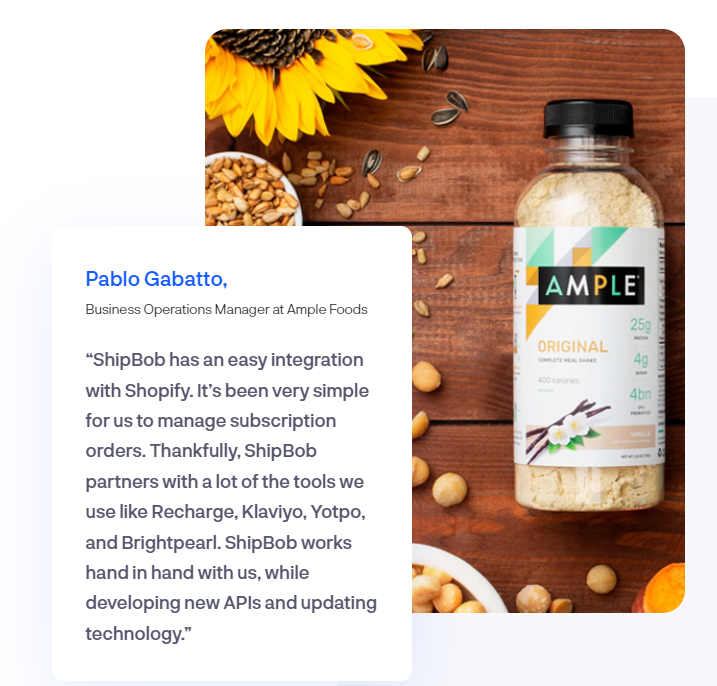
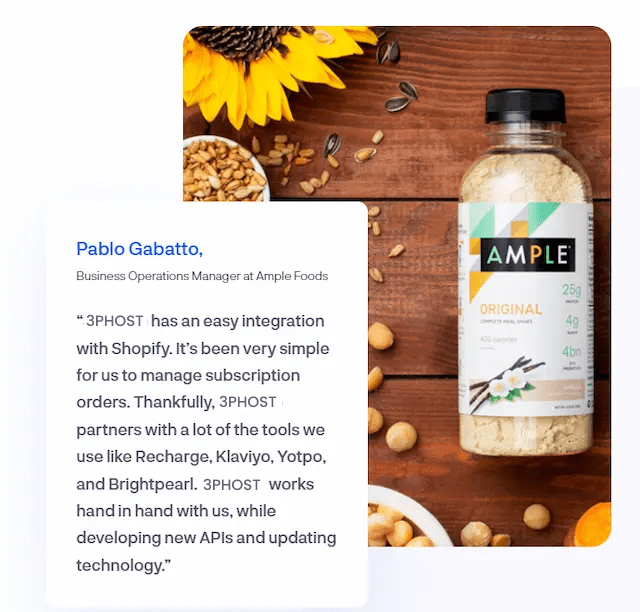
shipbob removed

diff --git a/app/(site)/product/page.tsx b/app/(site)/product/page.tsx
@@ -1,12 +1,6 @@
 "use client"
-import About from '@/components/About'
-import Brands from '@/components/Brands'
-import Feature from '@/components/Features'
-import FeaturesTab from '@/components/FeaturesTab'
-import FunFact from '@/components/FunFact'
-import Hero from '@/components/Hero'
 import ProductHero from '@/components/Hero/ProductHero'
-import Integration from '@/components/Integration'
+// import Integration from '@/components/Integration'
 import Cards from '@/components/Cards/Cards'
 import Solution from '@/components/Solution/Solution'
 // import FulfillmentSteps from '../../../components/FulfillmentSteps/FulfillmentSteps'
@@ -97,18 +91,18 @@ const ProductPage = () => {
                 </div>
             </section>
 
-            <Cards item={1} position={2} p1={"We’ve onboarded thousands of ecommerce merchants and helped some of the fastest-growing brands scale effortlessly. Our implementation team sets you up for success with everything from configuring your ship options, to syncing your online store."} p2={"ShipBob’s turnkey integrations with all major ecommerce platforms and marketplaces – including Shopify, BigCommerce, Amazon, and Walmart – let you import orders and send data back and forth for a two-way flow of information."} heading={"Easy and helpful"} url={Image} brWord={"onboarding"} />
+            <Cards item={1} position={2} p1={"We’ve onboarded thousands of ecommerce merchants and helped some of the fastest-growing brands scale effortlessly. Our implementation team sets you up for success with everything from configuring your ship options, to syncing your online store."} p2={"3PHOST's turnkey integrations with all major ecommerce platforms and marketplaces – including Shopify, BigCommerce, Amazon, and Walmart – let you import orders and send data back and forth for a two-way flow of information."} heading={"Easy and helpful"} url={Image} brWord={"onboarding"} />
 
             <Cards item={2} position={1}
-                p1={"With ShipBob’s network of fulfillment centers, you can strategically split your inventory across our locations to get your products from point A to point B more quickly and affordably. Storing inventory near your customers helps reduce the shipping zones and costs associated with shipping orders to faraway destinations."}
-                p2={"Distributed inventory also helps you stay competitive by offering two-day shipping to your customers. When an order is placed, ShipBob’s algorithm automatically selects the warehouse and carrier that will give you the quickest turnaround at the best price. This strategy has helped our merchants bring 13% savings to their bottom line."}
+                p1={"With 3PHOST network of fulfillment centers, you can strategically split your inventory across our locations to get your products from point A to point B more quickly and affordably. Storing inventory near your customers helps reduce the shipping zones and costs associated with shipping orders to faraway destinations."}
+                p2={"Distributed inventory also helps you stay competitive by offering two-day shipping to your customers. When an order is placed, 3PHOST algorithm automatically selects the warehouse and carrier that will give you the quickest turnaround at the best price. This strategy has helped our merchants bring 13% savings to their bottom line."}
                 heading={"Distributed"}
                 url={Distributed}
                 brWord={"inventory"}
             />
 
             <Cards item={2} position={2}
-                p1={"ShipBob’s 2-Day Express Shipping Program enables fast delivery for all continental US orders for any of our ecommerce store integrations. With 2-day shipping as the standard, merchants have been able to reduce cart abandonment by 18% and increase average order value by 97%. "}
+                p1={"3PHOST 2-Day Express Shipping Program enables fast delivery for all continental US orders for any of our ecommerce store integrations. With 2-day shipping as the standard, merchants have been able to reduce cart abandonment by 18% and increase average order value by 97%. "}
                 p2={"Whether you ship from one or multiple fulfillment center locations, you can offer fast delivery to 100% of US-based customers. Our proprietary algorithm uses a combination of ground, air, and regional carriers to provide high on-time delivery rates for 2-day orders. "}
                 heading={"2-Day Express Shipping"}
                 url={Day_iPhone}
@@ -117,8 +111,8 @@ const ProductPage = () => {
 
 
             <Cards item={2} position={1}
-                p1={"At ShipBob, we track your orders from A to Z. Filter orders by status, search for specific orders, see a quick timeline view of where your order is in the fulfillment process (e.g. when an order is picked, packed, or shipped), easily find shipping-related information (e.g., weights, dimensions, or carrier service), and get a quick snapshot of any orders that require action."}
-                p2={"With order management software for your direct-to-consumer and wholesale shipments, you can manage subscriptions, make changes to your orders post-purchase, map your store’s shipping options to ShipBob, and automatically share tracking information with your customers."}
+                p1={"At 3PHOST, we track your orders from A to Z. Filter orders by status, search for specific orders, see a quick timeline view of where your order is in the fulfillment process (e.g. when an order is picked, packed, or shipped), easily find shipping-related information (e.g., weights, dimensions, or carrier service), and get a quick snapshot of any orders that require action."}
+                p2={"With order management software for your direct-to-consumer and wholesale shipments, you can manage subscriptions, make changes to your orders post-purchase, map your store’s shipping options to 3PHOST, and automatically share tracking information with your customers."}
                 heading={"Order management "}
                 url={product}
                 brWord={""}
@@ -127,7 +121,7 @@ const ProductPage = () => {
 
 
             <Cards item={2} position={2}
-                p1={"At ShipBob, we empower merchants to manage their inventory with the right tools and guidance. It’s easy to view the status of inventory and quantity on hand across locations at any point in time, identify slow-moving inventory with high storage costs, and gain insights into the performance of units sold over time by channel."}
+                p1={"At 3PHOST, we empower merchants to manage their inventory with the right tools and guidance. It’s easy to view the status of inventory and quantity on hand across locations at any point in time, identify slow-moving inventory with high storage costs, and gain insights into the performance of units sold over time by channel."}
                 p2={"Our inventory management software helps you set reminders to proactively replenish inventory with reorder notifications, bundle your products for promotions, make inventory transfer requests, and much more."}
                 heading={"Inventory management"}
                 url={product2}
@@ -137,7 +131,7 @@ const ProductPage = () => {
 
 
             <Cards item={2} position={1}
-                p1={"To provide you with visibility into our operations and performance, and also hold ourselves accountable, ShipBob’s free analytics tool is packed with charts to help you with everything from year-end reporting, to better supply chain decision-making."}
+                p1={"To provide you with visibility into our operations and performance, and also hold ourselves accountable, 3PHOST free analytics tool is packed with charts to help you with everything from year-end reporting, to better supply chain decision-making."}
                 p2={"Data can be a competitive advantage, and our reports show an analysis of which fulfillment centers you should stock, days of inventory left before you run out, impact of promotions on stock levels, each shipping method’s average cart value, shipping cost, and days in transit, your fulfillment cost per order, storage cost per unit, and much more."}
                 heading={"Reporting and"}
                 url={product3}
@@ -145,7 +139,7 @@ const ProductPage = () => {
             />
 
             <Cards item={2} position={2}
-                p1={"From custom branded boxes to free plain packaging, ShipBob works with you to provide the unboxing experience you want. We also help you offer the fastest, most cost-effective shipping options to meet your customers’ expectations. As soon as an order ships, tracking is pushed back to your store."}
+                p1={"From custom branded boxes to free plain packaging, 3PHOST works with you to provide the unboxing experience you want. We also help you offer the fastest, most cost-effective shipping options to meet your customers’ expectations. As soon as an order ships, tracking is pushed back to your store."}
                 p2={"We also offer return management services, allowing customers to generate return shipping labels and track returns, while getting your products processed and back into your available inventory as efficiently as possible."}
                 heading={"End-to-end customer"}
                 url={last}

diff --git a/components/FunFact/index.tsx b/components/FunFact/index.tsx
@@ -10,7 +10,7 @@ const FunFact = () => {
       <section className="px-4 py-20 md:px-8 lg:py-22.5 2xl:px-0">
         <div className="relative z-1 mx-auto max-w-c-1390 rounded-lg  py-22.5 dark:bg-blacksection dark:bg-gradient-to-t dark:from-transparent dark:to-transparent dark:stroke-strokedark xl:py-27.5">
           <h1 className="text-[#175CFF] font-bold">CUSTOMER STORIES</h1>
-          <h1 className="mt-2 text-4xl font-semibold text-black dark:text-white">ShipBob is a partner for the long run — at all stages of <br /> growth</h1>
+          <h1 className="mt-2 text-4xl font-semibold text-black dark:text-white">3PHOST is a partner for the long run — at all stages of <br /> growth</h1>
 
 
           <div className="flex items-start justify-between gap-x-4 flex-wrap mt-[3rem]">
@@ -20,7 +20,7 @@ const FunFact = () => {
               <Image width={200} height={150} alt="image" src={`https://www.shipbob.com/wp-content/smush-webp/2023/11/ed145c852edd364485e01e1a1db4eae6.png.webp`} className="rounded-md"/>
               <h1 className="mt-6 text-3xl text-black dark:text-white font-semibold">2,400</h1>
               <h1 className="mt-3 text-xl">SKUs in their catalog</h1>
-              <p className="mt-7 text-wrap text-xl border-l-2 border-[#175CFF] pl-[1rem]">"We have a high item per order ratio, The ability to have variable costs and competitive pricing for shipping is important to us. We have days with over 1,000 orders and it’s not problem for ShipBob."</p>
+              <p className="mt-7 text-wrap text-xl border-l-2 border-[#175CFF] pl-[1rem]">"We have a high item per order ratio, The ability to have variable costs and competitive pricing for shipping is important to us. We have days with over 1,000 orders and it’s not problem for 3PHOST."</p>
             </div>
 
 
@@ -28,21 +28,21 @@ const FunFact = () => {
               <Image width={200} height={150} alt="image" src={`https://www.shipbob.com/wp-content/uploads/2021/07/Series-E-Funding-4.png`} className="rounded-md"/>
               <h1 className="mt-6 text-3xl text-black dark:text-white font-semibold">2,400</h1>
               <h1 className="mt-3 text-xl">SKUs in their catalog</h1>
-              <p className="mt-7 text-wrap text-xl border-l-2 border-[#175CFF] pl-[1rem]">"We have a high item per order ratio, The ability to have variable costs and competitive pricing for shipping is important to us. We have days with over 1,000 orders and it’s not problem for ShipBob."</p>
+              <p className="mt-7 text-wrap text-xl border-l-2 border-[#175CFF] pl-[1rem]">"We have a high item per order ratio, The ability to have variable costs and competitive pricing for shipping is important to us. We have days with over 1,000 orders and it’s not problem for 3PHOST."</p>
             </div>
 
             <div className="sm:max-w-[20rem] sm:min-w-[20rem] sm:h-[30rem] mb-4">
               <Image width={200} height={150} alt="image" src={`https://www.shipbob.com/wp-content/uploads/2020/02/TB12-body-coaches.png`} className="rounded-md"/>
               <h1 className="mt-6 text-3xl text-black dark:text-white font-semibold">2,400</h1>
               <h1 className="mt-3 text-xl">SKUs in their catalog</h1>
-              <p className="mt-7  text-wrap text-xl border-l-2 border-[#175CFF] pl-[1rem]">"We have a high item per order ratio, The ability to have variable costs and competitive pricing for shipping is important to us. We have days with over 1,000 orders and it’s not problem for ShipBob."</p>
+              <p className="mt-7  text-wrap text-xl border-l-2 border-[#175CFF] pl-[1rem]">"We have a high item per order ratio, The ability to have variable costs and competitive pricing for shipping is important to us. We have days with over 1,000 orders and it’s not problem for 3PHOST."</p>
             </div>
 
             <div className="sm:max-w-[20rem] sm:min-w-[20rem] sm:h-[30rem] mb-4">
               <Image width={200} height={150} alt="image" src={`https://www.shipbob.com/wp-content/uploads/2021/03/Touchland-hand-sanitizer.png`} className="rounded-md"/>
               <h1 className="mt-6 text-3xl text-black dark:text-white font-semibold">2,400</h1>
               <h1 className="mt-3 text-xl">SKUs in their catalog</h1>
-              <p className="mt-7 text-wrap text-xl border-l-2 border-[#175CFF] pl-[1rem]">"We have a high item per order ratio, The ability to have variable costs and competitive pricing for shipping is important to us. We have days with over 1,000 orders and it’s not problem for ShipBob."</p> 
+              <p className="mt-7 text-wrap text-xl border-l-2 border-[#175CFF] pl-[1rem]">"We have a high item per order ratio, The ability to have variable costs and competitive pricing for shipping is important to us. We have days with over 1,000 orders and it’s not problem for 3PHOST."</p> 
             </div>
 
           </div>

diff --git a/components/FunFact/FunFactProduct.jsx b/components/FunFact/FunFactProduct.jsx
@@ -10,7 +10,7 @@ const FunFactProduct = () => {
       <section className="px-4 py-20 md:px-8 lg:py-22.5 2xl:px-0">
         <div className="relative z-1 mx-auto max-w-c-1390 rounded-lg  py-22.5 dark:bg-blacksection dark:bg-gradient-to-t dark:from-transparent dark:to-transparent dark:stroke-strokedark xl:py-27.5">
           <h1 className="text-[#175CFF] font-bold text-center">CUSTOMER STORIES</h1>
-          <h1 className="mt-2 text-4xl font-semibold text-black dark:text-white text-center">Don’t just take our word for it — see why ShipBob is trusted by thousands <br /> of merchants</h1>
+          <h1 className="mt-2 text-4xl font-semibold text-black dark:text-white text-center">Don’t just take our word for it — see why 3PHOST is trusted by thousands <br /> of merchants</h1>
 
 
           <div className="flex items-start justify-between gap-x-4 flex-wrap mt-[3rem]">
@@ -18,18 +18,18 @@ const FunFactProduct = () => {
 
             <div className="sm:max-w-[25rem] sm:min-w-[25rem] sm:h-[30rem] mb-4">
               <Image width={50} height={150} alt="image" src={`https://www.shipbob.com/wp-content/uploads/2020/01/Noel.jpg`} className="rounded-md"/>
-              <p className="mt-7 text-wrap text-xl border-l-2 border-[#175CFF] pl-[1rem]">"It was kind of like magic — my orders were imported into ShipBob from my Shopify Plus store and started getting fulfilled right away. I didn’t have to do anything. Since then, we’ve grown 115% and experienced 2.5 times more order volume. And with ShipBob’s 2-Day Express program, we’ve seen a 24% increase in our average order value for qualifying orders placed on our Shopify Plus store."</p>
+              <p className="mt-7 text-wrap text-xl border-l-2 border-[#175CFF] pl-[1rem]">"It was kind of like magic — my orders were imported into 3PHOST from my Shopify Plus store and started getting fulfilled right away. I didn’t have to do anything. Since then, we’ve grown 115% and experienced 2.5 times more order volume. And with 3PHOST 2-Day Express program, we’ve seen a 24% increase in our average order value for qualifying orders placed on our Shopify Plus store."</p>
             </div>
 
 
             <div className="sm:max-w-[25rem] sm:min-w-[25rem] sm:h-[30rem] mb-4">
               <Image width={50} height={150} alt="image" src={`https://www.shipbob.com/wp-content/uploads/2019/12/headshot-matt-300x289-1.png`} className="rounded-md"/>
-              <p className="mt-7 text-wrap text-xl border-l-2 border-[#175CFF] pl-[1rem]">"IThere is a cost-benefit to having several fulfillment centers, as orders can be shipped from warehouses that are closer to customers and delivered very quickly. With ShipBob, I stay up-to-date with what’s shipped, physical inventory levels, and my company’s performance. They keep getting better, helping brands grow and expand at a ratio that other 3PLs might be a few years behind."</p>
+              <p className="mt-7 text-wrap text-xl border-l-2 border-[#175CFF] pl-[1rem]">"IThere is a cost-benefit to having several fulfillment centers, as orders can be shipped from warehouses that are closer to customers and delivered very quickly. With 3PHOST, I stay up-to-date with what’s shipped, physical inventory levels, and my company’s performance. They keep getting better, helping brands grow and expand at a ratio that other 3PLs might be a few years behind."</p>
             </div>
 
             <div className="sm:max-w-[25rem] sm:min-w-[25rem] sm:h-[30rem] mb-4">
               <Image width={50} height={150} alt="image" src={`https://www.shipbob.com/wp-content/uploads/2019/12/oded.jpg`} className="rounded-md"/>
-              <p className="mt-7  text-wrap text-xl border-l-2 border-[#175CFF] pl-[1rem]">"Our business is almost all subscriptions, and ShipBob helps us offer reliable, affordable shipping that shows up at the same time each month. ShipBob’s analytics tool helps us a lot with planning inventory reorders, seeing when SKUs are going to run out, and we can even set up email notifications so that we’re alerted when a SKU has less than a certain quantity left."</p>
+              <p className="mt-7  text-wrap text-xl border-l-2 border-[#175CFF] pl-[1rem]">"Our business is almost all subscriptions, and 3PHOST helps us offer reliable, affordable shipping that shows up at the same time each month. 3PHOST analytics tool helps us a lot with planning inventory reorders, seeing when SKUs are going to run out, and we can even set up email notifications so that we’re alerted when a SKU has less than a certain quantity left."</p>
             </div>
 
           </div>

diff --git a/components/Footer/index.tsx b/components/Footer/index.tsx
@@ -12,7 +12,7 @@ const Footer = () => {
 
           <div className="flex justify-between items-center pt-20 border-b pb-10">
             <div>
-              <h1 className="text-lg font-bold text-[#52C4FF]">Get in touch with Shipbob</h1>
+              <h1 className="text-lg font-bold text-[#52C4FF]">Get in touch with 3PHOST</h1>
               <p className="text-3xl font-bold text-white mt-2">Looking for a fulfillment solution?</p>
             </div>
             <div>
@@ -36,7 +36,7 @@ const Footer = () => {
                   <FaYoutube className="text-[#175CFF] text-2xl" />
                 </div>
 
-                <a href="#" className="text-lg font-medium text-white">© Copyright ShipBob, Inc. All Rights Reserved. 120 N Racine Ave. Suite 100 Chicago, IL 60607</a>
+                <a href="#" className="text-lg font-medium text-white">© Copyright 3PHOST, Inc. All Rights Reserved. 120 N Racine Ave. Suite 100 Chicago, IL 60607</a>
               </motion.div>
 
               <div className="flex w-full flex-col gap-5 md:flex-row md:justify-between md:gap-0 lg:w-2/3 xl:w-7/12">
@@ -110,7 +110,7 @@ const Footer = () => {
                       <a href="#" className="mb-3 inline-block hover:text-primary">Returns Management</a>
                     </li>
                     <li>
-                      <a href="#" className="mb-3 inline-block hover:text-primary">ShipBob Developer APIs</a>
+                      <a href="#" className="mb-3 inline-block hover:text-primary">3PHOST Developer APIs</a>
                     </li>
                   </ul>
                 </motion.div>
@@ -140,17 +140,17 @@ const Footer = () => {
                       <a href="#" className="mb-3 inline-block hover:text-primary">Shipping Carrier Data</a>
                     </li>
                     <li>
-                      <a href="#" className="mb-3 inline-block hover:text-primary">ShipBob Status Page</a>
+                      <a href="#" className="mb-3 inline-block hover:text-primary">3PHOST Status Page</a>
                     </li>
                     <li>
-                      <a href="#" className="mb-3 inline-block hover:text-primary" >ShipBob Locations</a>
+                      <a href="#" className="mb-3 inline-block hover:text-primary" >3PHOST Locations</a>
                     </li>
 
                     <li>
                       <a href="#" className="mb-3 inline-block hover:text-primary">Health, Beauty</a>
                     </li>
                     <li>
-                      <a href="#" className="mb-3 inline-block hover:text-primary">Shopify + ShipBob</a>
+                      <a href="#" className="mb-3 inline-block hover:text-primary">Shopify + 3PHOST</a>
                     </li>
                   </ul>
                 </motion.div>

diff --git a/components/Contact/index.tsx b/components/Contact/index.tsx
@@ -32,12 +32,12 @@ const Contact = () => {
             <div>
               <h1 className="text-[4rem] font-bold text-black dark:text-white mb-[3rem]">Contact Us</h1>
               <p className="mt-4 text-lg">We’re here to help. Ask us about the product, our services, and any <br /> questions you have.</p>
-              <p className="mt-4 text-lg">ShipBob HQ address 120 N Racine Ave. Suite 100 Chicago, IL 60607</p>
+              <p className="mt-4 text-lg">3PHOST HQ address 120 N Racine Ave. Suite 100 Chicago, IL 60607</p>
               <p className="mt-4 text-lg border-b border-[#2F6DFF] pb-1 w-fit text-[#2F6DFF] cursor-pointer">View our fulfillment locations here.</p>
               <p className="mt-4 text-lg font-semibold">Customer Support</p>
               <p className="mt-4 text-lg">Need help with anything?</p>
               <ul>
-                <li className="mt-2 list-disc text-lg font-semibold border-b border-[#2F6DFF] pb-1 w-fit text-[#2F6DFF] cursor-pointer">Contact ShipBob’s Merchant Care team</li>
+                <li className="mt-2 list-disc text-lg font-semibold border-b border-[#2F6DFF] pb-1 w-fit text-[#2F6DFF] cursor-pointer">Contact 3PHOST Merchant Care team</li>
                 <li className="mt-2 list-disc text-lg font-semibold">Call 1-312-313-1104</li>
                 <li className="mt-2 list-disc text-lg font-semibold border-b border-[#2F6DFF] pb-1 w-fit text-[#2F6DFF] cursor-pointer">View our Help Center</li>
                 <li className="mt-2 list-disc text-lg font-semibold border-b border-[#2F6DFF] pb-1 w-fit text-[#2F6DFF] cursor-pointer">Media inquiries</li>
@@ -49,7 +49,7 @@ const Contact = () => {
 
 
             <div className="bg-white w-auto h-auto lg:h-[43rem] lg:w-[38rem] lg:rounded-3xl lg:shadow-lg lg:border lg:px-7 py-10">
-              <h1 className="text-[2rem] font-bold text-black dark:text-white mb-[1.5rem]">Contact ShipBob’s Sales Team</h1>
+              <h1 className="text-[2rem] font-bold text-black dark:text-white mb-[1.5rem]">Contact 3PHOST Sales Team</h1>
               <p className="text-xl font-semibold text-black dark:text-white mb-[1rem]">Need customer support? Please go <span className=" border-b border-[#2F6DFF]  w-fit text-[#2F6DFF] cursor-pointer">here</span>.</p>
 
               <form action="">

diff --git a/app/(site)/blog/page.tsx b/app/(site)/blog/page.tsx
@@ -21,7 +21,7 @@ const BlogPage = async () => {
 
           <div>
             <h1 className="text-3xl font-bold text-black dark:text-white">Subscribe to the</h1>
-            <h1 className="text-3xl font-bold text-black dark:text-white">ShipBob Blog</h1>
+            <h1 className="text-3xl font-bold text-black dark:text-white">3PHOST Blog</h1>
             <p className="text-lg mt-4">Get a bi-weekly email, rounding up our latest articles that</p>
             <p className="text-lg ">feature the latest tips to improve ecommerce logistics.</p>
           </div>
@@ -32,7 +32,7 @@ const BlogPage = async () => {
             </div>
             <div>
               <p className="text-xs font-bold text-[#175cff] mb-2">Enter email to subscribe to our newsletter*</p>
-              <input type="text" name="" id="" placeholder="e.g:robert@shipbob.com" className="h-[4rem] border border-[#d2d2d2] px-3 outline-none rounded-md dark:bg-white" />
+              <input type="text" name="" id="" placeholder="e.g:robert@3PHOST.com" className="h-[4rem] border border-[#d2d2d2] px-3 outline-none rounded-md dark:bg-white" />
             </div>
             <div>
               <Link href="https://nextjstemplates.com/templates/solid" className="flex items-center justify-center rounded-full bg-primary px-7.5 py-3.5 text-regular text-white duration-300 ease-in-out hover:bg-primaryho font-bold md:mt-0 mt-5">Subscribe</Link>

diff --git a/components/Solution/Solution.jsx b/components/Solution/Solution.jsx
@@ -7,13 +7,13 @@ function Solution() {
             icon: '/images/Solution/product-sec10-1.svg', // Replace with the correct path to your icon
             title: 'Solutions for your unique needs',
             description:
-                'ShipBob can accommodate your business if you require additional services such as kitting, B2B orders, international fulfillment, and much more.',
+                '3PHOST can accommodate your business if you require additional services such as kitting, B2B orders, international fulfillment, and much more.',
         },
         {
             icon: '/images/Solution/product-sec10-2.svg', // Replace with the correct path to your icon
             title: 'A scalable partner as you grow',
             description:
-                'From helping you grow to supporting your growth, ShipBob makes it easy to increase revenue, reduce cart abandonment, and expand domestically or internationally.',
+                'From helping you grow to supporting your growth, 3PHOST makes it easy to increase revenue, reduce cart abandonment, and expand domestically or internationally.',
         },
         {
             icon: '/images/Solution/product-sec10-3.svg', // Replace with the correct path to your icon

diff --git a/components/Features/index.tsx b/components/Features/index.tsx
@@ -10,21 +10,12 @@ const Feature = () => {
       {/* <!-- ===== Features Start ===== --> */}
       <section id="features" className="py-20 lg:py-25 xl:py-30">
         <div className="mx-auto max-w-c-1315 px-4 md:px-8 xl:px-0">
-          {/* <!-- Section Title Start --> */}
-          {/* <SectionHeader
-            headerInfo={{
-              title: "Ecommerce Fulfillment Services",
-              subtitle: "ShipBob is an end-to-end fulfillment provider trusted by thousands of brands",
-              description:
-                "ShipBob is an end-to-end fulfillment provider trusted by thousands of brands",
-            }}
-          />{" "} */}
           <div className="text-start">
             <p className="text-base font-extrabold uppercase text-[#0063ED]">
               Ecommerce Fulfillment Services
             </p>
             <h2 className="mt-2 text-3xl font-bold tracking-tight text-gray-900 sm:text-4xl">
-              ShipBob is an end-to-end fulfillment provider
+            3PHOST is an end-to-end fulfillment provider
               <br />
               trusted by thousands of brands
             </h2>

diff --git a/components/Hero/ProductHero.tsx b/components/Hero/ProductHero.tsx
@@ -11,10 +11,10 @@ const ProductHero = () => {
         <div className="mx-auto max-w-c-1390 px-4 md:px-8 2xl:px-0">
           <div className="flex lg:items-center lg:gap-8 xl:gap-32.5">
             <div className=" md:w-1/2">
-              <h1 className="mb-5 pr-16 text-3xl font-bold text-black dark:text-white xl:text-hero ">How ShipBob <br /> Works</h1>
+              <h1 className="mb-5 pr-16 text-3xl font-bold text-black dark:text-white xl:text-hero ">How 3PHOST <br /> Works</h1>
 
               <div className="mt-2">
-                <p>ShipBob is a full-stack fulfillment platform. We use our proprietary software across our fulfillment network for a cohesive experience. Orders are automatically sent to our warehouses, where inventory is picked, packed, and shipped to your customers.</p>
+                <p>3PHOST is a full-stack fulfillment platform. We use our proprietary software across our fulfillment network for a cohesive experience. Orders are automatically sent to our warehouses, where inventory is picked, packed, and shipped to your customers.</p>
               </div>
 
               <div className="mt-2">

diff --git a/components/EcommerceOperations/EcommerceOperations.jsx b/components/EcommerceOperations/EcommerceOperations.jsx
@@ -74,7 +74,7 @@ const platforms = [
   
     {
       name: 'PackageBee',
-      description: 'Connect your custom online store to ShipBob.',
+      description: 'Connect your custom online store to 3PHOST.',
       imgSrc: 'https://www.shipbob.com/wp-content/uploads/2021/03/Package-Bee-Listings-Logo.png',
       
     },
@@ -136,7 +136,7 @@ function EcommerceOperations() {
 
                     </h2>
                     <p className="text-gray-700 my-12">
-                    Managing inventory, forecasting demand, and order handling. ShipBob <br />partners with the leading platforms to scale your brand.<br /> Note: A blue checkmark represents a direct integration.
+                    Managing inventory, forecasting demand, and order handling. 3PHOST <br />partners with the leading platforms to scale your brand.<br /> Note: A blue checkmark represents a direct integration.
                     </p>
                     <div className="grid grid-cols-1 gap-6 sm:grid-cols-2 lg:grid-cols-4">
                         {platforms.map((platform, index) => (

diff --git a/components/BecomePartner/BecomePartner.jsx b/components/BecomePartner/BecomePartner.jsx
@@ -15,7 +15,7 @@ const BecomePartner = () => {
                     <div className="mt-[5rem]">
                         <p className="font-bold text-[#0675FE] text-center text-xs">WANT TO PARTNER WITH US?</p>
                         <div className="flex justify-center items-center mt-3 flex-col ">
-                            <p className="text-5xl mb-14 text-black dark:text-white max-w-[60%] font-semibold text-center">Join the ShipBob partner ecosystem  today</p>
+                            <p className="text-5xl mb-14 text-black dark:text-white max-w-[60%] font-semibold text-center">Join the 3PHOST partner ecosystem  today</p>
                             <Link href="https://nextjstemplates.com/templates/solid" className="flex items-center h-[4rem] mt-[3rem] justify-center rounded-full bg-primary px-7.5 py-2.5 text-regular text-white duration-300 ease-in-out hover:bg-primaryho font-bold">Become Partner</Link>
                         </div>
                     </div>

diff --git a/components/Hero/PartnerHero.tsx b/components/Hero/PartnerHero.tsx
@@ -11,14 +11,14 @@ function PartnerHero() {
           <div className="flex lg:items-center lg:gap-8 xl:gap-32.5">
             <div className=" md:w-1/2">
               <h1 className="mb-5 pr-16 text-3xl font-bold text-black dark:text-white xl:text-6xl ">
-                ShipBob Partner Ecosystem
+              3PHOST Partner Ecosystem
                 <br /> & Integrations
                 <br />
               </h1>
 
               <div className="mt-2">
                 <p>
-                  ShipBob is a full-stack fulfillment platform. We use our
+                3PHOST is a full-stack fulfillment platform. We use our
                   proprietary software across our fulfillment network for a
                   cohesive experience. Orders are automatically sent to our
                   warehouses, where inventory is picked, packed, and shipped to
